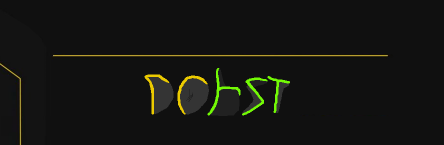
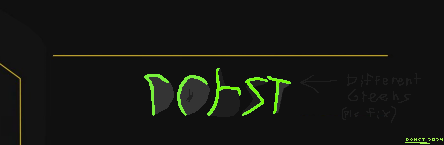
1.4.2 20241015 - mostly small style changes
- made the text size bigger for smaller windows
- fixed 1.4.1 issue : Some copyright info has too much padding on the sides on mobile
- changed the way font size is changed for smaller windows, now reassigns the variables in ':root'
- fixed 1.4.1 issue : Table font is too small for mobile
- added nether village to datapacks table on main page
- updated the 'dohst.png' image

diff --git a/index.html b/index.html
@@ -265,7 +265,7 @@
                             <td>Simple Voice Chat</td>
                             <td><a href="https://www.curseforge.com/minecraft/mc-mods/simple-voice-chat/files/5716602">Curse Forge</a></td>
                             <td>v2.5.22</td>
-                            <td class="limited">A proximity voice chat for Minecraft.</td>
+                            <td class="limited">A proximity voice chat mod for Minecraft.</td>
                         </tr>
                         <tr>
                             <td>Sodium</td>
@@ -390,12 +390,13 @@
                             <td>Deepslate Dungeon</td>
                             <td><a href="downloads/dohst/deepslate_dungeon-v2.1-1.20.4.zip">Download v2.1</a></td>
                             <td class="limited">Adds a new dungeon to the deepslate level.</td>
-                        </tr>
-                        <tr>
-                            <td>Nether Village</td>
-                            <td><a href="downloads/dohst/deepslate_dungeon-v3.0-1.20.1.zip">v3.0 Unavailable</a></td>
-                            <td class="limited">Adds Villages to the nether</td>
                         </tr> -->
+                        <tr>
+                            <th><a href="dohst.html">Dohst</a></th>
+                            <td>Nether Village</td>
+                            <td><a href="downloads/dohst/nether_village-v3.1-1.21.zip">Download v3.1</a></td>
+                            <td class="limited">Adds custom villages to the nether dimension.</td>
+                        </tr>
                     </tbody>
                 </table>
                 <p>All datapacks that have the author "Vanilla Tweaks" are not made by me, and you should check out some of their other creations on their <a href="/https://vanillatweaks.net">website.</a></p>

diff --git a/dohst.html b/dohst.html
@@ -70,6 +70,7 @@
                             <td><a href="downloads/dohst/nether_village-v2-1.19.zip">Download v2.0</a></td>
                             <td><a href="downloads/dohst/nether_village-v3.0-1.20.1.zip">Download v3.0</a></td>
                             <td><a href="downloads/dohst/nether_village-v3.1-1.21.zip">Download v3.1</a></td>
+                            <!-- Please note that Herbine also contributed to older versions of this datapack, although you cant download them here some of the structures in the current version were originally made by him. -->
                         </tr>
                         <tr id="datapacks-noendereye">
                             <td>No Ender Eye</td>
@@ -112,7 +113,7 @@
             </section>
 
             <!-- <section id="mods">
-                # ya no, this aint gonna be a thing any time soon - Dohst from 17/07/2024
+                # ya no, this aint gonna be a thing any time soon - Note from Dohst on 17/07/2024 (15/10/2024 : I can confirm, aint no way im learning modding anytime soon, not to mention i dont know java yet)
                 <h2>Dohst's Mods</h2>
                 <p>I forgot to start working on a mod, very sad. No mods for now. (maybe in the next update)</p>
                 <p>I will only be making fabric mods for the latest version of minecraft, so don't expect older versions or other mod loaders.</p>

diff --git a/main.css b/main.css
@@ -52,8 +52,8 @@ footer, address {
 }
 
 main address {
-    margin-left: 30%;
-    margin-right: 30%;
+    margin-left: 25%;
+    margin-right: 25%;
 }
 
 code, table, th, td, button, li, ul, ol, hr, img {
@@ -168,19 +168,22 @@ nav button:hover {
 }
 
 @media only screen and /* (max-width: 600px) */ (max-width: 1024px) {
-    p, h1, h2, h3, ul, ol {
+    :root {
+        --font-size: 24px;
+        --font-size-small: 22px
+    }
+    
+    p, h1, h2, h3, ul, ol, main address {
         margin-left: 5%;
         margin-right: 5%;
-        --font-size: 20px;
-        --font-size-small: 18px;
     }
     .limited {
         max-width: 250px;
     }
 
-    /* removes the 'AmazonSMP Websbite' if the page is too small too show it (does this by making it generate in the negatives)*/
+    /* removes the 'AmazonSMP Websbite' if the page is too small to show it (makes it generate in the negatives)*/
     nav h1, .right {
-        margin-left: -10000px;
+        margin-left: -1000px;
     }
 
     nav button {

diff --git a/downloads/changelog.md b/downloads/changelog.md
@@ -452,6 +452,7 @@
     - updated v1.4 section on changes page
 
 - #### 1.4.2 (14/10/2024 - 20/10/2024) release
+    - 2024 10 14
     - updated change log
     - updated readme file
     - removed 'old' folder
@@ -467,6 +468,13 @@
     - fixed 1.4.1 issue : Dohst nether village datapack description
     - updated dohst datapack table and description
     - fixed 1.4.1 issue : Dohst datapack table description
+    - 2024 10 15
+    - made the text size bigger for smaller windows
+    - fixed 1.4.1 issue : Some copyright info has too much padding on the sides on mobile
+    - changed the way font size is changed for smaller windows, now reassigns the variables in ':root'
+    - fixed 1.4.1 issue : Table font is too small for mobile
+    - added nether village to datapacks table on main page
+    - updated the 'dohst.png' image
 
 
 ---
